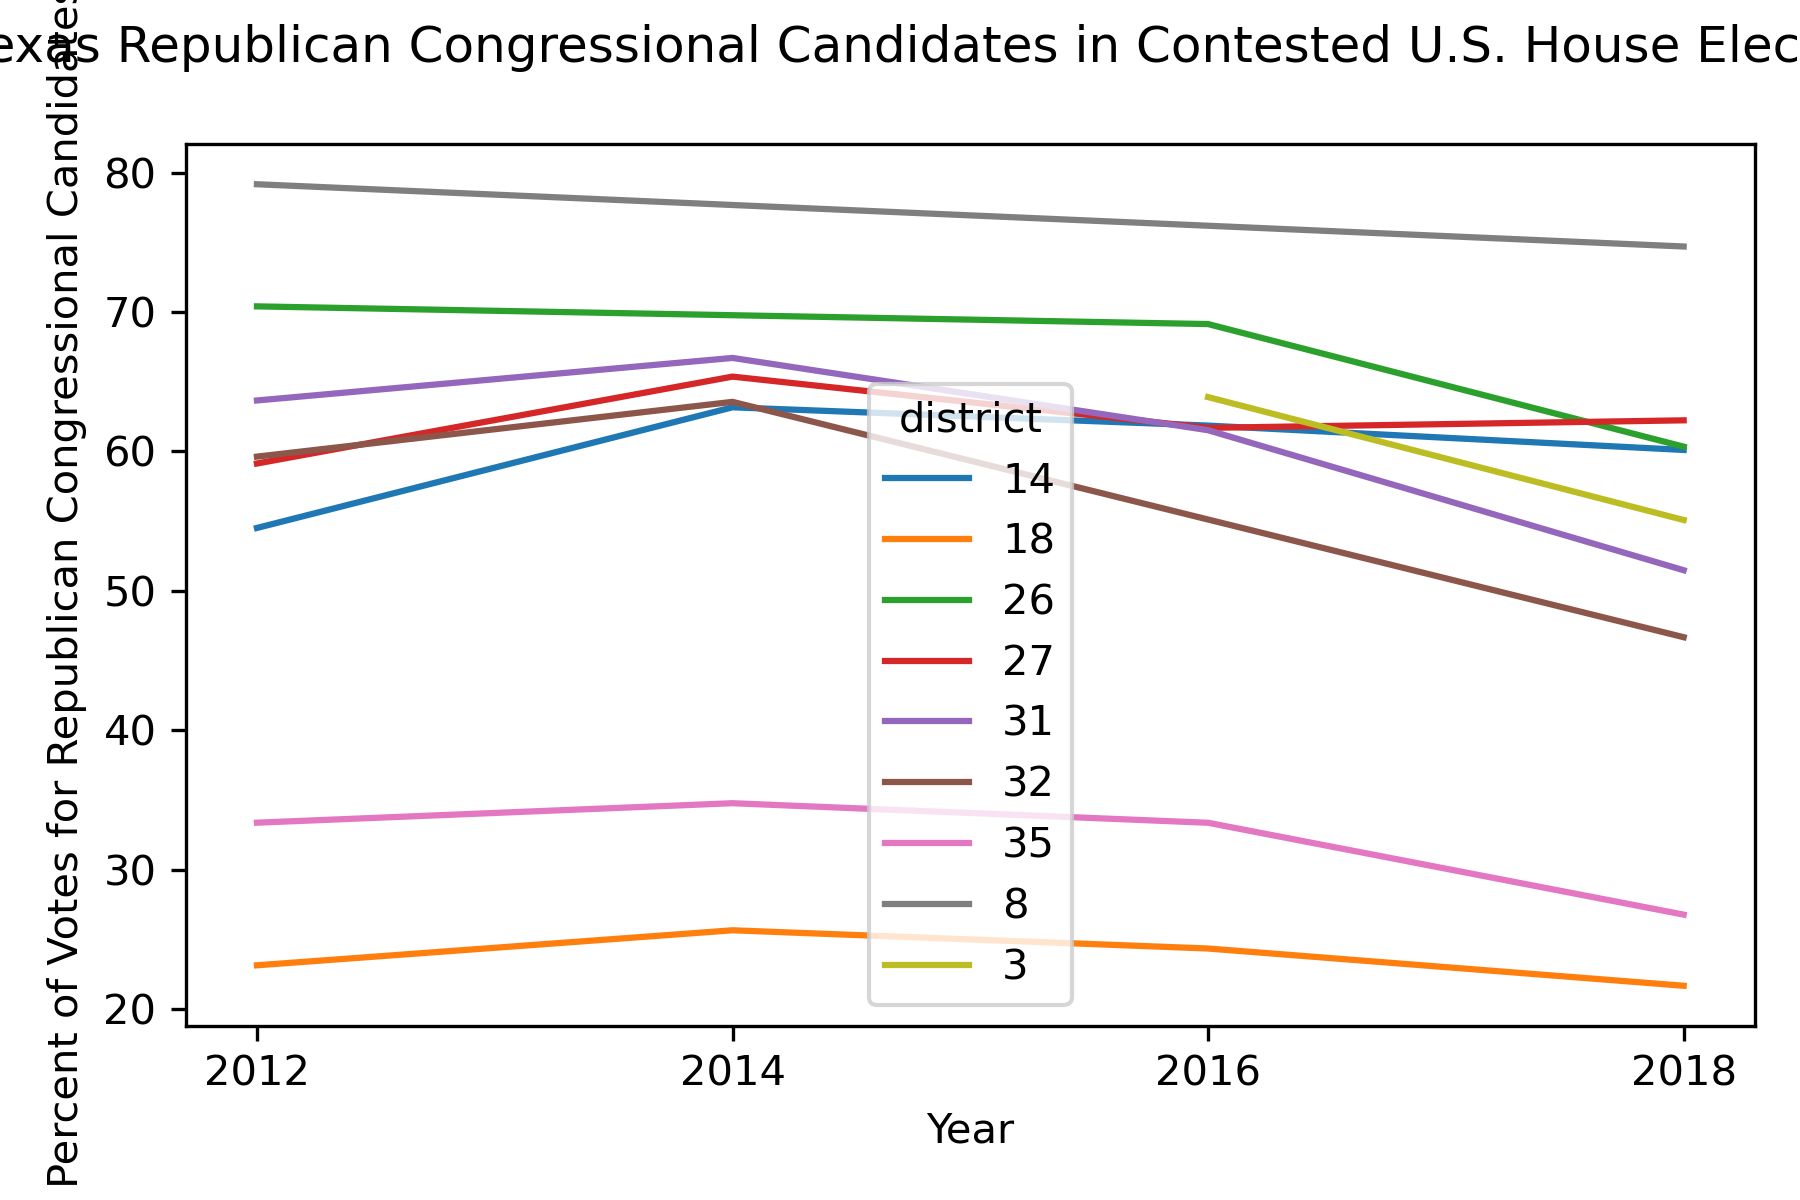
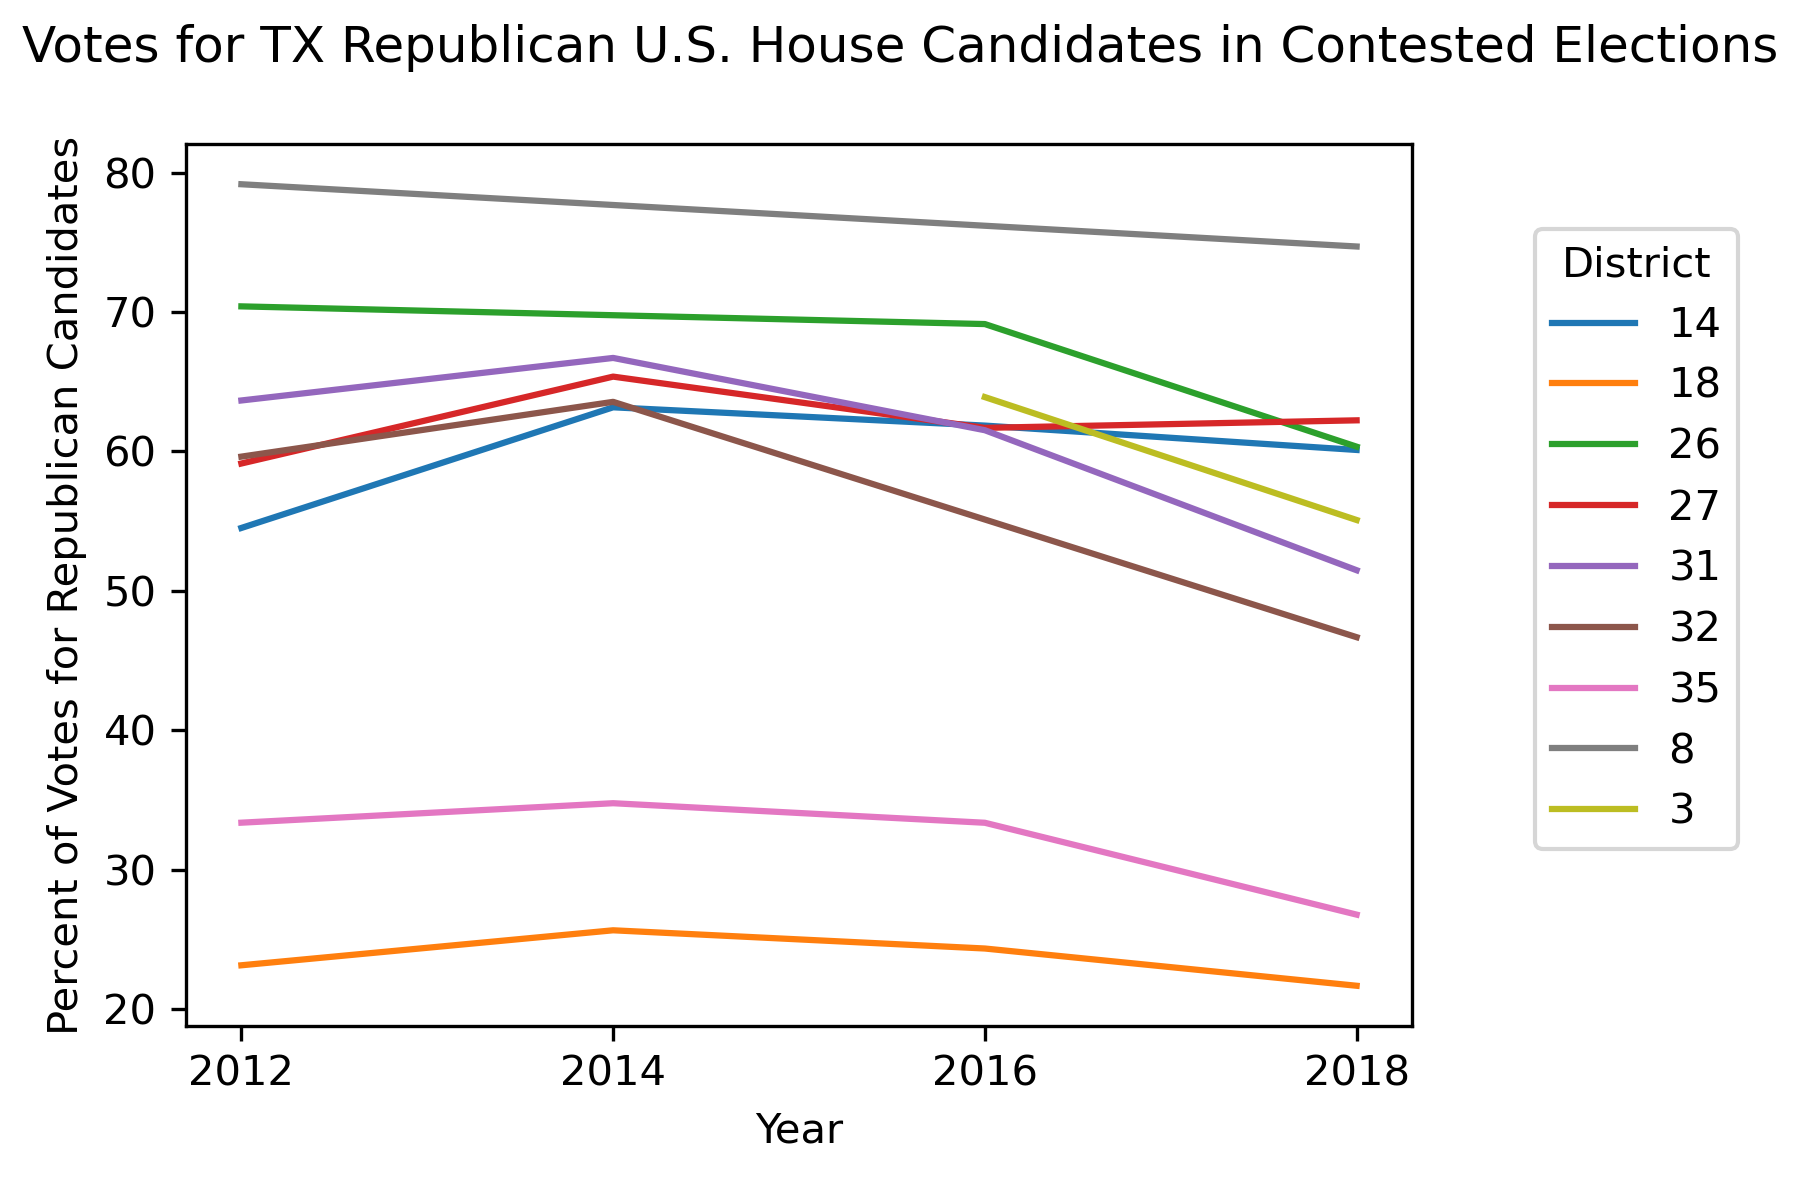
Updates, generated whitevsrep.png

diff --git a/electiondata.py b/electiondata.py
@@ -51,9 +51,10 @@ import seaborn as sns
 
 fig, ax = plt.subplots()
 sns.lineplot(x = "year", y = "REPpercent", data=CDrep, hue='district', ax=ax)
-fig.suptitle("Percent of Votes for Republican Congressional Candidates in Texas Congressional Districts from 2012-2018")
+fig.suptitle("Percent of Votes for TX Republican U.S. House Candidates, 2012-2018")
 ax.set_xlabel("Year")
-ax.set_ylabel("Percent of Votes for Republican Congressional Candidates")
+ax.set_ylabel("Percent of Votes for Republican Candidates")
+plt.legend(title='District',loc=[1.1, 0.2])
 fig.tight_layout()
 fig.savefig("CDpercentrepublican.png", dpi=300)
 
@@ -66,21 +67,47 @@ CDrepdemcontested = CDrepcontested.query("DEMpercent != 0")
 #%%
 fig, ax = plt.subplots()
 sns.lineplot(x = "year", y = "REPpercent", data=CDrepdemcontested, hue='district', ax=ax)
-fig.suptitle("Percent of Votes for Texas Republican Congressional Candidates in Contested U.S. House Elections from 2012-2018")
+fig.suptitle("Votes for TX Republican U.S. House Candidates in Contested Elections")
 ax.set_xlabel("Year")
-ax.set_ylabel("Percent of Votes for Republican Congressional Candidates")
+ax.set_ylabel("Percent of Votes for Republican Candidates")
+plt.legend(title='District',loc=[1.1, 0.2])
 fig.tight_layout()
 fig.savefig("CDpercentrepcontested.png", dpi=300)
 
 #%%
 
-#whitereppercent = pd.DataFrame()
-#whitereppercent['2012'] = specificTXCDs['candidatevotes']/specificTXCDs['totalvotes']*100
-#whitereppercent['2014'] = specificTXCDs['candidatevotes']/specificTXCDs['totalvotes']*100
+#Convert dataframes to csv files
 
+from racedatajoin import white
+white.to_csv('white.csv')
+CDrepdemcontested.to_csv('CDrepdemcontested.csv')
 
-#contrib = contrib.merge(po,left_on='year',right_on='district',how='outer',validate='m:1',indicator=True)
-#print(contrib['_merge'].value_counts())
+#fixups = {}
+reppercent = pd.read_csv('CDrepdemcontested.csv')
+whitepercent = pd.read_csv('white.csv')
+
+#  Inner: only records in both
+#
+join = reppercent.merge(whitepercent, 
+                      on=["year","district"],
+                      how='inner', 
+                      validate='1:1', 
+                      indicator=True)
+print(len(join))
+print( '\nInner:\n', join['_merge'].value_counts(), sep='' )
+join.to_csv('join.csv')
+
+#%%
+join['s_district'] = join['district'].astype(str)
+fig, ax = plt.subplots()
+sns.lineplot(x = "w%", y = "REPpercent", data=join, hue='s_district', ax=ax)
+fig.suptitle("Percent White vs % of Votes for TX Republican Candidates, 2012-2018")
+ax.set_xlabel("Percent of Population that is White Only")
+ax.set_ylabel("Percent of Votes for Republican Candidates")
+plt.legend(title='District',loc=[1.1, 0.2])
+fig.tight_layout()
+fig.savefig("whitevsrep.png", dpi=300)
+
 
 #%%
 #margin of victory; build lil dataframe CDrep drop where REP = 0 and where DEM = 0

diff --git a/racedatajoin.py b/racedatajoin.py
@@ -42,10 +42,10 @@ white['2019'] = CDpercentwhite2019['percent_white']
 
 white = white.stack()
 white = white.reset_index()
-white.columns = ['cd','year','w%']
+white.columns = ['district','year','w%']
 
 districts = ['03','26','32','31','35','27','08','18','14']
-in_districts = white['cd'].isin(districts)
+in_districts = white['district'].isin(districts)
 
 white = white[in_districts]
 #put plotting data in separate script
@@ -67,11 +67,12 @@ import matplotlib.pyplot as plt
 import seaborn as sns
 
 fig, ax = plt.subplots()
-sns.lineplot(x = "year", y = "w%", data=white, hue='cd', ax=ax)
-fig.suptitle("Percent of White Individuals in Texas Congressional Districts from 2012-2019")
+sns.lineplot(x = "year", y = "w%", data=white, hue='district',ax=ax)
+fig.suptitle("White Percent of Population in TX Congressional Districts, 2012-2019")
 ax.set_xlabel("Year")
-ax.set_ylabel("Percent of Population that is White Only")
+ax.set_ylabel("Percent of White-Only Population")
 #ax.get_legend().remove()
+plt.legend(title='District',loc=[1.1, 0.2])
 fig.tight_layout()
 fig.savefig("CDpercentwhite.png", dpi=300)
 
